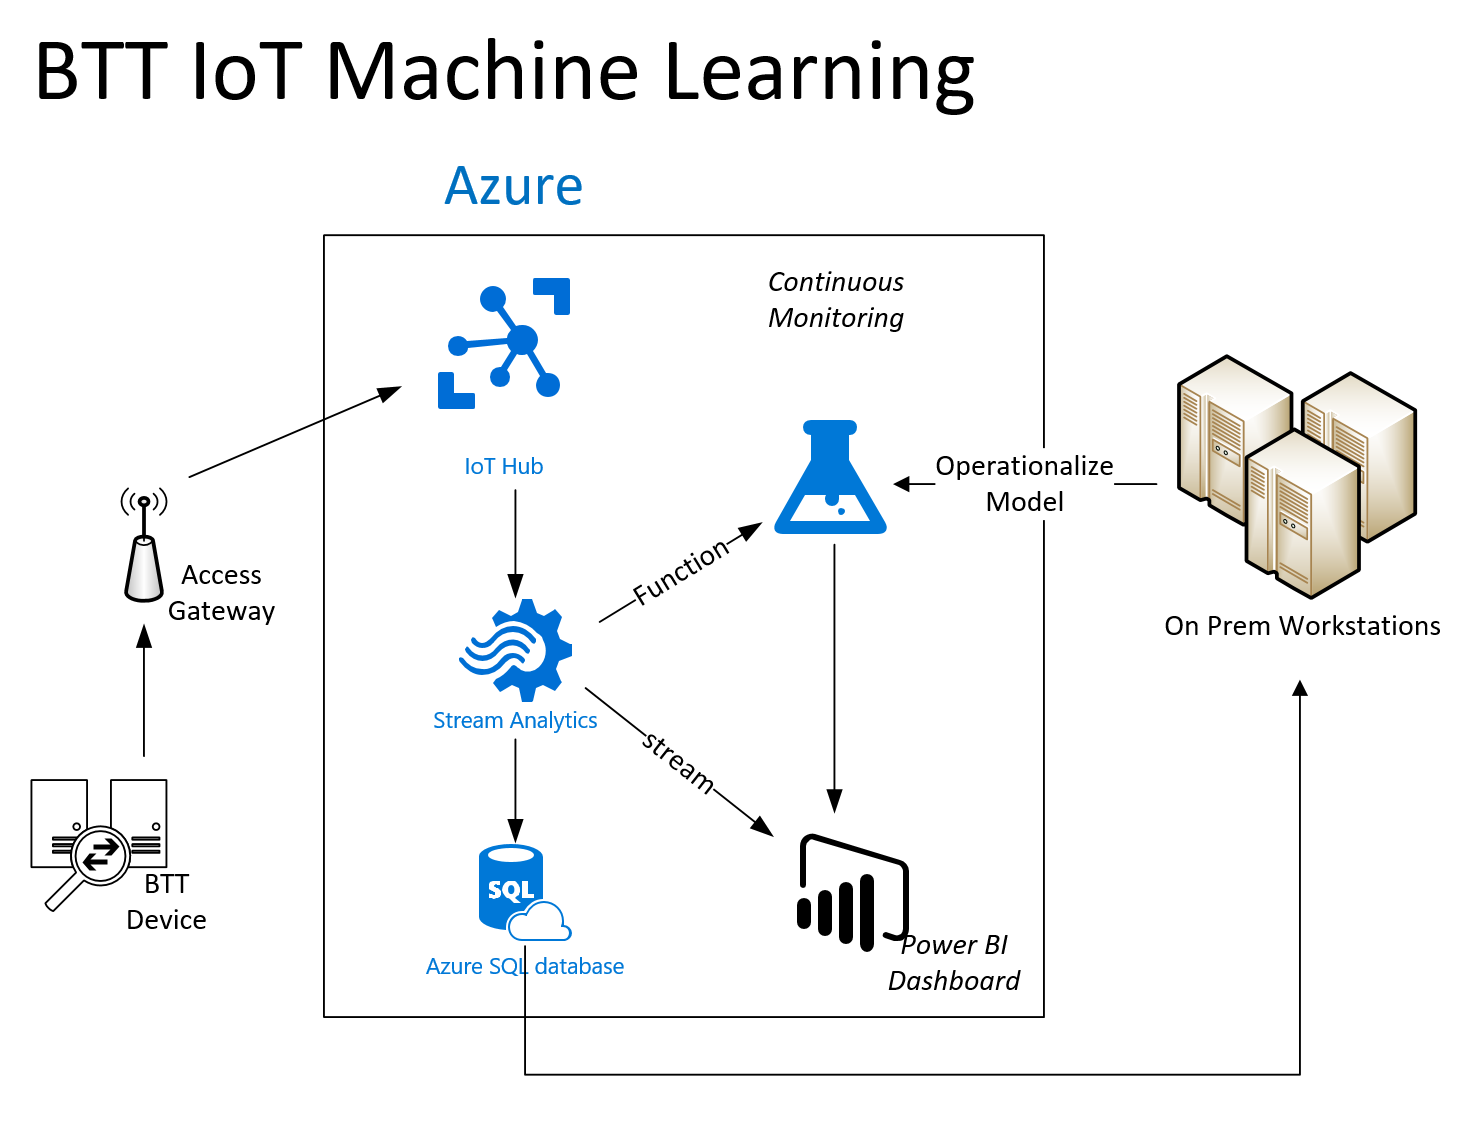
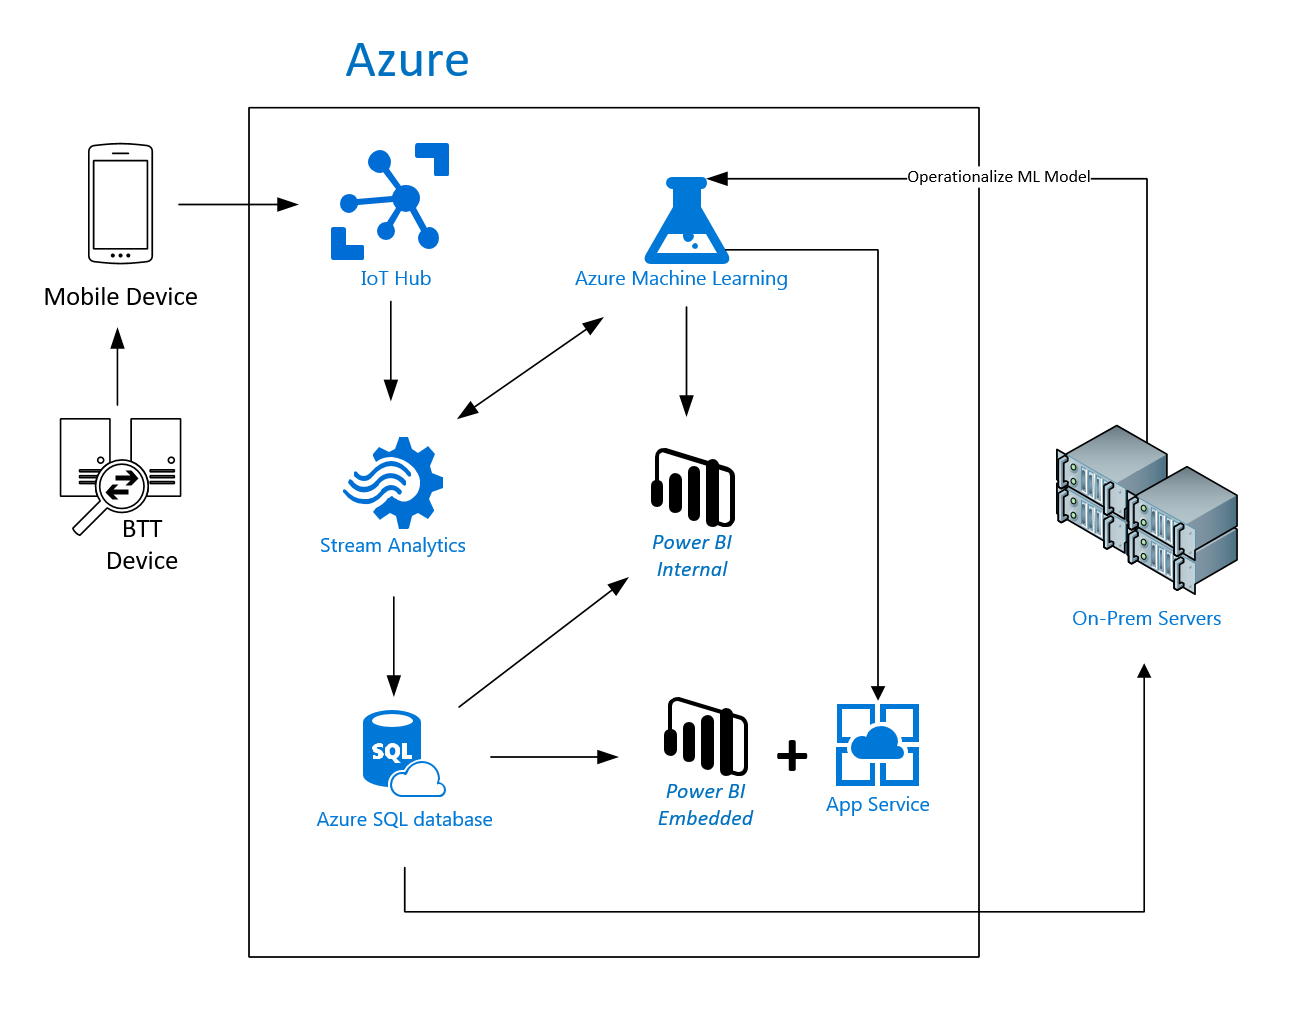
Add BTT PowerBI Embedded (#54)
* Add BTT PBIE

* Update company info

* Add R and PBIE images

* Add customer quote

* Fix Grammar

* Update usage of SQL Server

* fix image link

* Update usage of  "SQL Datasource" to "Azure SQL datasource"

* Address feedback from Romit

* Address final feedback from Romit

* Add Romit's changes and Megan's suggestion

* Update 2016-10-05-BTTCorp.md

Copy edit in progress.

* Update 2016-10-05-BTTCorp.md

Copy edit in progress.

* Update 2016-10-05-BTTCorp.md

Copy edit in progress.

* Update 2016-10-05-BTTCorp.md

* Update 2016-10-05-BTTCorp.md

* Update 2016-10-05-BTTCorp.md

* Update 2016-10-05-BTTCorp.md

Preparing for publication.

diff --git a/_posts/2016-10-05-BTTCorp.md b/_posts/2016-10-05-BTTCorp.md
@@ -1,103 +1,159 @@
 ---
 layout: post
-title:  "IoT and Machine Learning for Brain Thermal Pattern Recognition"
+title:  "Power BI Embedded, IoT, and Machine Learning for brain thermal pattern recognition with BTT"
 author: "David Crook"
 author-link: "#"
 #author-image: "{{ site.baseurl }}/images/authors/photo.jpg"
-date:   2016-11-17
-categories: IoT
+date:   2017-02-13
+categories: [IoT, Power BI Embedded]
 color: "blue"
 #image: "{{ site.baseurl }}/images/imagename.png" #should be ~350px tall
-excerpt: This article showcases pattern recognition with Azure IoT and Machine Learning.
+excerpt: Microsoft worked with BTT Corp to develop a solution to help with brain thermal tunnel pattern recognition. 
 language: English
 verticals: Healthcare
 ---
 
+*This is an update of a report originally published on Nov. 17, 2016.*
 
 <iframe src="https://channel9.msdn.com/Shows/Microsoft-Technical-Case-Studies/Brain-Project/player" width="960" height="540" allowFullScreen frameBorder="0"></iframe>
 
 
-Microsoft worked with BTT Corp to develop an IoT solution to help with brain thermal tunnel pattern recognition. This report describes their solution.
+Microsoft worked with BTT Corp to develop an IoT solution to help with brain thermal tunnel pattern recognition, a technique based on research by Dr. Marc Abreu of Yale University. This report describes their solution.
 
 The core project team included:
 
-- Robert Ortega - CTO, BTT
-- James Melenkevitz - Data Scientist, BTT
-- David Crook, [@Data4Bots](https://twitter.com/Data4Bots) - Technical Evangelist, Microsoft
-- Yung Chou, [@yungchou](https://twitter.com/yungchou) - Senior Technical Evangelist, Microsoft
+- Robert Ortega – CTO, BTT
+- David Crook ([@Data4Bots](https://twitter.com/Data4Bots)) – Technical Evangelist, Microsoft
+- Yung Chou ([@yungchou](https://twitter.com/yungchou)) – Senior Technical Evangelist, Microsoft
+- Paul DeCarlo ([@pjdecarlo](https://twitter.com/pjdecarlo)) – Senior Technical Evangelist, Microsoft
 
-[![Ch. 9 Video]({{site.baseurl}}/images/BTT/Video_Picture.png)](https://www.youtube.com/watch?v=oPAqVDdNVQw&feature=youtu.be)
+## Customer profile ##
 
-
-## BTT Corp ##
-[Brain Tunnelgenix Technologies Corp](http://www.bttcorp.com/) (BTT Corp) is a med-tech company with offices in the United States and Brazil.  They have a biological discovery patent on the Brain Thermal Tunnel and are developing several product lines around this particular discovery.  The goal of all product lines is to democratize brain thermodynamics insights to improve your health.
+[Brain Tunnelgenix Technologies Corp](http://www.bttcorp.com/) (BTT Corp) is a med-tech company with offices in the United States and Brazil. It has a biological discovery patent on the Brain Thermal Tunnel and is developing several product lines around this particular discovery. The goal of all product lines is to democratize brain thermodynamics insights to improve your health.
 
 Through continuous monitoring of brain temperature, BTT treats brain temperature like a multichannel signal and uses this to perform analysis and pattern recognition to further insights into customers' health on a personalized basis.  
 
-One of BTT's large marketing points is that the device is non-invasive.  See below reference image of device application.
+One of BTT's large marketing points is that the device is non-invasive. See the reference image of the device application, below.
 
 ![BTT Device Application]({{ site.baseurl }}/images/BTT/BTT_Crystal_Device_Applied.png)
  
 ## Pain point ##
 
-BTT Corp was looking to address two key problems.  First, they needed a way to take the patterns their researchers could recognize as humans and create computer algorithms that could recognize those patterns with a high degree of accuracy.  Second, they needed a way to integrate these algorithms into a production application that could perform pattern recognition in real time as well as in a batch-like process when the data is sourced from a proprietary device.
-
+BTT Corp was looking to address two key problems. First, it needed a way to take the patterns its researchers could recognize as humans and create computer algorithms that could recognize those patterns with a high degree of accuracy. Second, it needed a way to integrate these algorithms into a production application that could perform pattern recognition in real time as well as in a batch-like process when the data is sourced from a proprietary device.
  
 ## Solution ##
 
-There are multiple processes and pathways the data takes in this particular IoT solution:
+The data takes multiple processes and pathways in this particular IoT solution:
 
-1. IoT Hub -> Stream Analytics -> Power BI
-2. IoT Hub -> Stream Analytics -> SQL Server
-2. IoT Hub -> Stream Analytics -> SQL Server -> Power BI
-4. IoT Hub -> Stream Analytics -> SQL Server -> Azure Machine Learning
+1. IoT Hub -> Stream Analytics -> Azure SQL Database
+2. IoT Hub -> Stream Analytics -> Azure SQL Database -> Power BI
+3. IoT Hub -> Stream Analytics -> Azure SQL Database -> Power BI Embedded  
+4. IoT Hub -> Stream Analytics -> Azure SQL Database -> On-prem high-performance computing (HPC) -> Azure Machine Learning 
 
-Below is a screenshot of a dashboard based on historical SQL Server data surfaced in Power BI with some light analytics applied.
+### Power BI ###
 
-![BTT Power BI Dashboard]({{ site.baseurl }}/images/BTT/Dashboard.JPG)
+Power BI played an important role in visualizing brain thermal signals captured by the BTT device. This data was exposed using internal Power BI reports as well as externally to end users using Power BI Embedded with row-level security to provide secure data access.
 
-Much of the power of BTT comes from its ability to perform pattern recognition and thus a major portion of their product relies on these capabilities.  Their current workforce is already trained using C++, Python, and R on their own workstations.  Due to this, we wanted to enable this team to continue their research and development while simultaneously opening a path to production deployment.  Alongside the team, we built a model using Python's sklearn packages and operationalized via Azure Machine Learning.  Below you can view a screenshot of in-progress development of a binary classification model using sklearn on a Linux workstation. 
+The ability to use advanced [R-analytics in Power BI](https://powerbi.microsoft.com/en-us/documentation/powerbi-desktop-r-scripts/) along with [visualization packages](https://app.powerbi.com/visuals/) added significant value to the BTT solution. Use of R allowed us to make use of advanced analytical tools including Fourier transform, frequency domain analysis, and peak/valley identification.  
+
+![BTT Power BI R Support]({{ site.baseurl }}/images/BTT/R.PNG)
+
+
+![BTT Power BI R Support]({{ site.baseurl }}/images/BTT/rcode.png)
+
+
+Traditionally, it can be difficult to securely deliver deep insights and visualizations to customer-facing applications. For example, consider the work involved in setting up an R environment and securely exposing it to users over the Internet. Power BI Embedded allowed us to quickly create secure interactive dashboards and reports for use by physicians and patients. These leverage R visualizations that are exposed through an ASP.NET web app hosted on Microsoft Azure.  
+
+Steps:
+
+1. [Create Power BI workspace in Azure](https://docs.microsoft.com/en-us/rest/api/powerbiembedded/workspacecollections#WorkspaceCollections_create).
+2. [Create a report in Power BI Desktop](https://www.youtube.com/watch?v=IMAsitQ2cAc) using Azure SQL database as DataSource.
+3. [Enforce row-level security in the report](https://powerbi.microsoft.com/en-us/documentation/powerbi-admin-rls/) where applicable.
+4. [Upload resulting .pbix into the Power BI workspace](https://docs.microsoft.com/en-us/azure/power-bi-embedded/power-bi-embedded-iframe#import-pbix-file-into-the-workspace).
+5. [Add DataSource credentials to DataSet](https://docs.microsoft.com/en-us/azure/power-bi-embedded/power-bi-embedded-iframe#data-source-connectivity-and-multi-tenancy-of-data).
+6. [Obtain appropriate OAuth token](https://docs.microsoft.com/en-us/azure/power-bi-embedded/power-bi-embedded-iframe#authentication-and-hosting-embedding-reports-in-our-web-page). 
+7. [Embed report into web page](https://docs.microsoft.com/en-us/azure/power-bi-embedded/power-bi-embedded-iframe#finally-embed-the-report-into-the-web-page) using OAuth token.
+
+**Data aggregation**
+
+Data is aggregated using a series of GROUP BY statements. We take data collected during a user's sleep session to create groups by person and session ID, then sort in ascending order in accordance to time. We then employ signal-processing techniques based on frequency domain composition to achieve further analysis. BTT is currently working to evaluate the most meaningful ways to perform deeper analysis and breakdown of its data. 
+
+**Archiving strategy**
+
+Data archiving is not currently employed. This feature is not necessary at this time because BTT is far from approaching [Azure SQL Database limits](https://docs.microsoft.com/en-us/azure/sql-database/sql-database-resource-limits). However, when these limits become close to being reached, BTT will need to evaluate an archiving strategy. This will likely consist of a [SQL Server pool](https://docs.microsoft.com/en-us/azure/sql-database/sql-database-elastic-pool) in conjunction with an [Azure Data Factory](https://azure.microsoft.com/en-us/services/data-factory/) to move data into [Azure Blob storage](https://docs.microsoft.com/en-us/azure/storage/storage-dotnet-how-to-use-blobs) for long-term storage. 
+
+**ETL processing**
+
+Currently, no Extract, Transform, and Load (ETL) processes are in place because we are [accessing data from the Azure SQL Database directly using DirectQuery](https://powerbi.microsoft.com/en-us/documentation/powerbi-azure-sql-database-with-direct-connect/). At this time, very few end users are accessing and viewing Power BI Embedded reports in BTT's system because it is still under development. However, as BTT onboards more customers and the load begins to exceed limits on the SQL database, it will begin moving to a SQL Server pool. At this point, BTT will query against replicated read-only non-transactional databases or archival stores. Under normal circumstances, the developers wouldn't use the transactional store, but, given the startup scenario of BTT, the partner chose to make this architectural decision for the time being. 
+
+**Demo**
+
+Below is a screenshot of a dashboard based on historical data surfaced in Power BI with some light analytics applied:
+
+![BTT Power BI Dashboard]({{ site.baseurl }}/images/BTT/histogram.png)
+
+
+The Power BI dashboard surfaced through Power BI Embedded in ASP.NET application:
+
+![BTT Power BI Embedded Dashboard]({{ site.baseurl }}/images/BTT/timedomain.png)
+
+
+BTT CTO Robert Ortega walks through configuration of Row Level Security using Power BI Embedded in the ASP.NET web app:
+
+[![Video Image]({{ site.baseurl }}/images/BTT/BTT_RLS_Demo.PNG)](https://www.youtube.com/watch?v=EHpNVPbtGMA) 
+
+
+### IoT and Machine Learning ###
+
+Much of the power of BTT comes from its ability to perform pattern recognition and thus a major portion of its product relies on these capabilities. Its current workforce is already trained using C++, Python, and R on their own workstations. Due to this, we wanted to enable this team to continue their research and development while simultaneously opening a path to production deployment. Alongside the team, we built a model using Python's sklearn packages and operationalized via Azure Machine Learning (ML). Below is a screenshot of in-progress development of a binary classification model using sklearn on a Linux workstation. 
 
 ![workstation sklearn training]({{ site.baseurl }}/images/BTT/sklearn_dev_workstation.png)
 
-As you can see, we are using Linux, Python, and Anaconda to perform the analysis against data pulled in from SQL Database.  This was purely a preference choice, but the process is loosely coupled enough to allow you to use nearly anything.  The full process for operationalizing the model into Azure Machine Learning is pictured below.
+
+As you can see, we are using Linux, Python, and Anaconda to perform the analysis against data pulled in from the Azure SQL datasource.  This was purely a preference choice, but the process is loosely coupled enough to allow you to use nearly anything. The full process for operationalizing the model into Azure Machine Learning is pictured below. 
 
 ![operationalizing ML model]({{ site.baseurl }}/images/BTT/Operatinoalization_Process.png)
 
-One of the more interesting parts of this experiment is that we were able to separate model training and inference away from feature extraction.  This enabled the ability to stack rank built in Azure Machine Learning Models against each other as well as custom models using the same features we extracted on the workstations during experimentation.  This process enables two things.  First, you can iterate just Azure Machine Learning models for a most likely best model to pursue while also custom developing other models should the exercise be deemed necessary and still stack it against many of the common algorithms.
 
-We then convert the experiment into a production model, which was a simple matter of choosing the endpoints and doing some basic cleanup.  An image of the production experiment can be viewed below.
+One of the more interesting parts of this experiment is that we were able to separate model training and inference away from feature extraction. This enabled the ability to stack-rank built-in Azure Machine Learning models against each other as well as custom models using the same features we extracted on the workstations during experimentation. This process enables two things. First, you can iterate just Azure Machine Learning models for a most-likely best model to pursue while also custom developing other models should the exercise be deemed necessary and still stack it against many of the common algorithms.
+
+We then convert the experiment into a production model, which was a simple matter of choosing the endpoints and doing some basic cleanup. An image of the production experiment is shown below.
 
 ![AzureML production model]({{ site.baseurl }}/images/BTT/productionmodel.png)
 
-Finally, after this process, we have an endpoint that can be integrated and tested in a variety of methods.  One of the easiest ways to test is using the Excel endpoint provided.  Below you can see us testing a segment of data against the endpoint to ensure we receive a negative classification.
+
+Finally, after this process, we have an endpoint that can be integrated and tested in a variety of ways. One of the easiest ways to test is using the Excel endpoint provided. Below you can see our testing of a segment of data against the endpoint to ensure we received a negative classification.
 
 ![AzureML excel plugin]({{ site.baseurl }}/images/BTT/BTT_ML_Excel_Plugin.png)
 
+
 ## Solution architecture ##
 
-The BTT solution is an IoT solution leveraging the power of the Microsoft IoT Suite.  It is an implementation following the [Microsoft Azure IoT Reference Architecture Guide](http://download.microsoft.com/download/A/4/D/A4DAD253-BC21-41D3-B9D9-87D2AE6F0719/Microsoft_Azure_IoT_Reference_Architecture.pdf).  A higher-level explanation of this type of solution can be found [here](https://channel9.msdn.com/Blogs/raw-tech/IOT-Analytics-Architecture-Whiteboard-with-David-Crook).  The key difference between this solution and many other solutions is the absence of big data infrastructure and the fact that data analysis is done both on premises and in the cloud.  SQL Database is sufficient to handle current loads.  BTT is evaluating SQL Data Warehouse as a big data platform when workloads increase beyond the capabilities of SQL Database.
+The BTT solution is an IoT solution leveraging the power of the Microsoft IoT Suite. It is an implementation following the [Microsoft Azure IoT Reference Architecture Guide](http://download.microsoft.com/download/A/4/D/A4DAD253-BC21-41D3-B9D9-87D2AE6F0719/Microsoft_Azure_IoT_Reference_Architecture.pdf). A higher-level explanation of this type of solution can be found [here](https://channel9.msdn.com/Blogs/raw-tech/IOT-Analytics-Architecture-Whiteboard-with-David-Crook). The key difference between this solution and many others is the absence of big data infrastructure and the fact that data analysis is done both on premises and in the cloud. SQL is sufficient to handle current loads. BTT is evaluating SQL Data Warehouse as a big data platform when workloads increase beyond the capabilities of the current Azure SQL datasource.
 
 ![BTT Pattern Recognition Architecture]({{ site.baseurl }}/images/BTT/BTT_Architecture_Diagram.png)
 
+
 ## Device used and code artifacts ##
 
-The device used is proprietary, but based on Texas Instruments embedded micro controller platform with built-in Bluetooth.  The device synchronizes with a client Windows device.  The Windows device is built using the Universal Windows Platform and C#.  The C# IoT Hub SDK is used in this scenario.
+The device used is proprietary, but based on Texas Instruments embedded microcontroller platform with built-in Bluetooth. The device synchronizes with a client Windows device. The Windows device is built using the Universal Windows Platform and C#. The C# IoT Hub SDK is used in this scenario.
 
-Annotation App for Labeling Time Series Patterns can be located [here](https://github.com/drcrook1/ML_Annotations). 
+The Annotation App for Labeling Time Series Patterns can be located [here](https://github.com/drcrook1/ML_Annotations). 
 
 Step-by-step instructions for how to deploy custom sklearn models to Azure Machine Learning can be located [here](http://dacrook.com/operationalizing-sklearn-with-azure-machine-learning/).
 
-Instructions for building a deep neural network with theano and lasagne and operationalizing via Azure Machine Learning can be found [here](https://blogs.technet.microsoft.com/machinelearning/2016/10/12/deep-neural-network-in-azure/).
+Instructions for building a deep neural network with Theano and Lasagne and operationalizing via Azure Machine Learning can be found [here](https://blogs.technet.microsoft.com/machinelearning/2016/10/12/deep-neural-network-in-azure/).
 
 ## Opportunities going forward ##
 
-BTT is planning to use Microsoft technologies (Power BI) to provide BTT™ Signal  reporting and analytics, including BTT™ Signal analysis for sleep doctors and specialists. BTT plans to use Azure Notification Hub for cross-platform alerting. BTT will also start porting the BTT™ Monitor to Xamarin forms to deliver a cross-platform experience. BTT is also evaluating Microsoft Health Vault and Azure SQL Data Warehouse.
-
+BTT is planning to use Microsoft technologies (Power BI) to provide BTT™ Signal reporting and analytics, including BTT™ Signal analysis for sleep doctors and specialists. BTT plans to use Azure Notification Hub for cross-platform alerting. BTT will also start porting the BTT™ Monitor to Xamarin.Forms to deliver a cross-platform experience. BTT is also evaluating Microsoft HealthVault and Azure SQL Data Warehouse.
 
 ## Conclusion ##
 
-> The IoT Hub in conjunction with Azure Stream Analytics has made it super easy for us to ingest data from our sensors. We also use Azure ML for developing an operationalizing predictive model. The best part is that all of these environments are ready to go and we do not have to worry about the underlying infrastructure. One of my favorite features of Azure ML is the automatically generated sample code  and Excel app for testing or invoking the predictive model web service. 
-> - Robert Ortega - CTO, BTT
+> *"The IoT Hub in conjunction with Azure Stream Analytics has made it super easy for us to ingest data from our sensors. We also use Azure ML for developing an operationalizing predictive model. The best part is that all of these environments are ready to go and we do not have to worry about the underlying infrastructure. One of my favorite features of Azure ML is the automatically generated sample code and Excel app for testing or invoking the predictive model web service.* 
 
-The partnership between BTT Corp and Microsoft is going to help democratize the insights into your brain and thereby improve the health of the world.  The ability for a small team of primarily research scientists to take advantage of these tools and build a solution of this caliber truly drives home the democratizing power of the Microsoft IoT Suite and Cognitive Services platform.
+> *"Productivity and, yes, power are the words that come to mind when I think about Power BI. The combination of the Power BI Desktop and Power BI Embedded with support for R is powerful and a serious productivity boost."*
+
+> *— Robert Ortega, BTT CTO*
+
+The partnership between BTT Corp and Microsoft is going to help democratize the insights into your brain and thereby improve the health of the world. The ability for a small team of primarily research scientists to take advantage of these tools and build a solution of this caliber truly drives home the democratizing power of the Microsoft IoT Suite and Cognitive Services platform.
